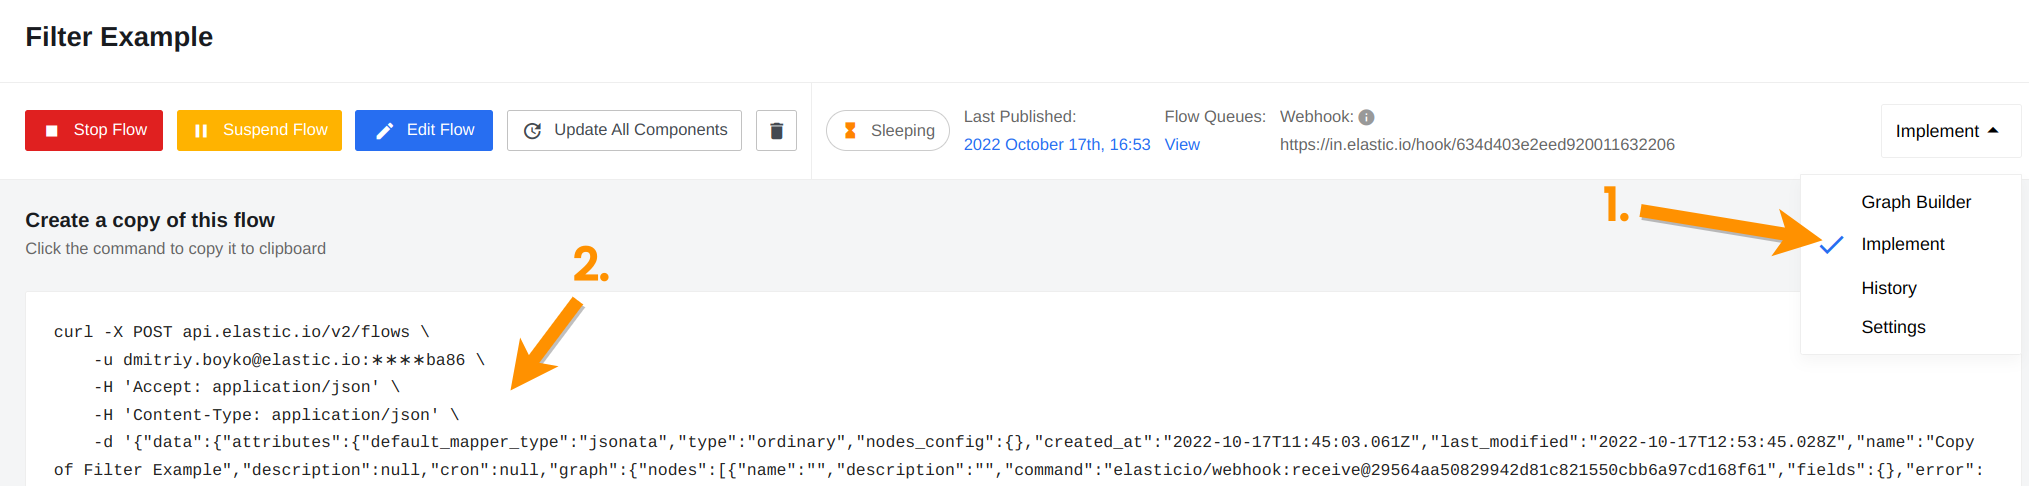
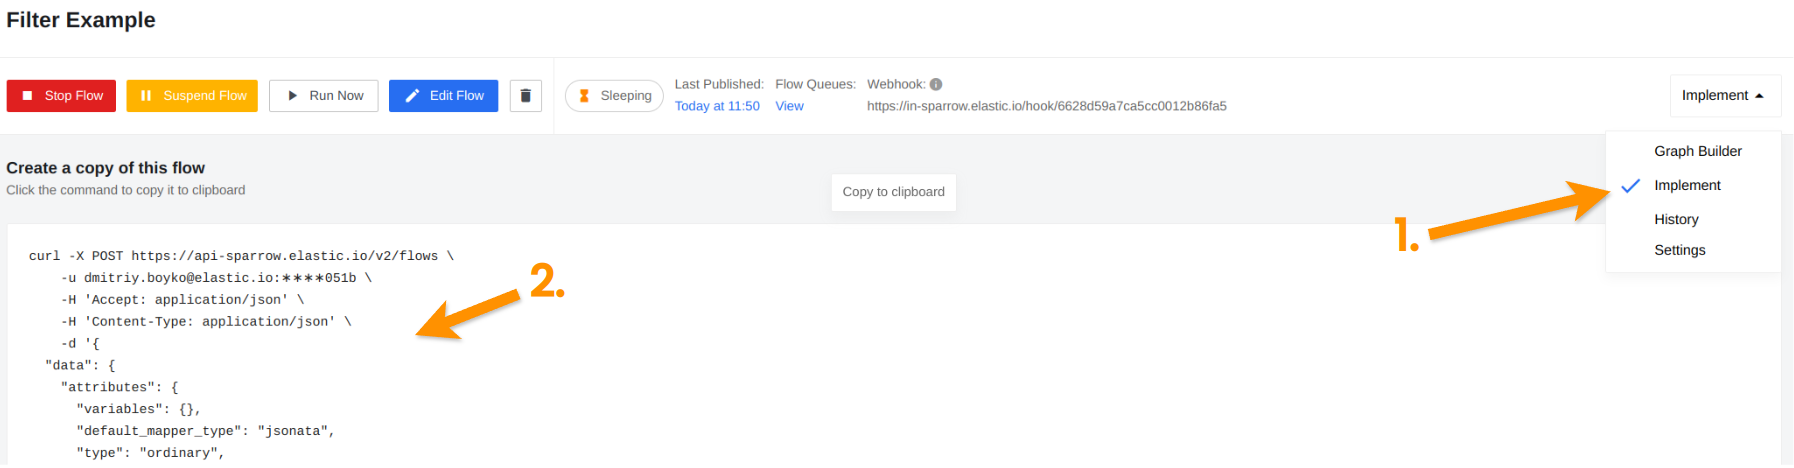
Update screenshots in relation to Start Now button appeared in flow designer page

diff --git a/content/_guides/managing-flows.md b/content/_guides/managing-flows.md
@@ -48,7 +48,7 @@ Then click the corresponding buttons to start **(1)**, edit **(2)** or delete **
 
 ![Corresponding buttons](/assets/img/tenant-management-guide/managing-flows/save_edit_update_delete_flow.png)
 
-In case you need to stop a running Flow, click the *Stop Flow* **(1)** button. Or if you want suspend flow, click *Suspend Flow* button **(2)**:
+In case you need to stop a running Flow, click the *Stop Flow* **(1)** button. Or if you want suspend flow, click *Suspend Flow* button **(2)**. Also you can immediately start this flow by click *Run Now* button **(3)**:
 
 ![Stop a running Flow](/assets/img/tenant-management-guide/managing-flows/stop_suspend_flow.png)
 
